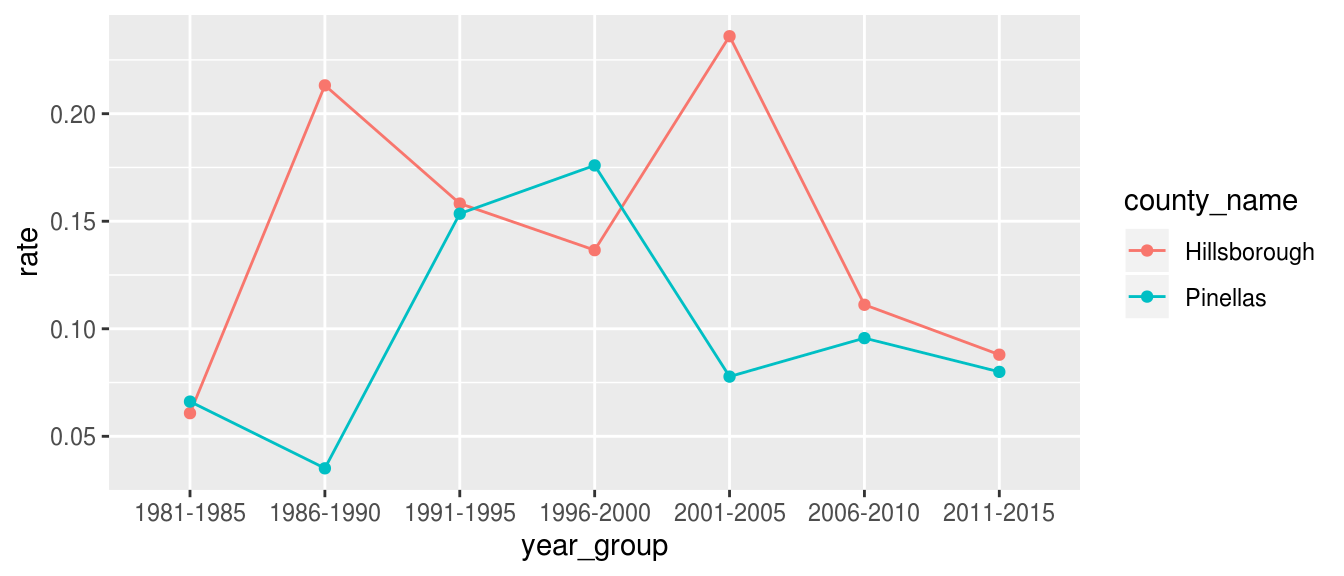
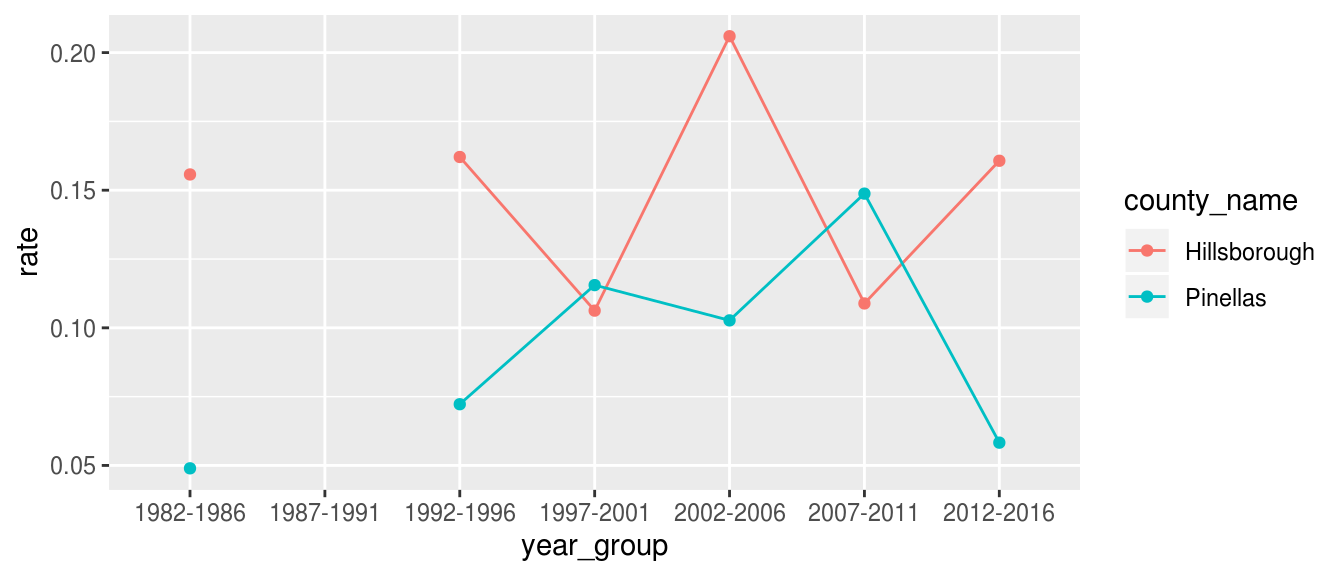
Deploy from Travis build 110 [ci skip]
Build URL: https://travis-ci.org/GerkeLab/fcds/builds/578446683
Commit: 0f09db50b9b5c94f210dc00641ab0e88dbbb514e

diff --git a/articles/fcds.html b/articles/fcds.html
@@ -31,7 +31,7 @@
       </button>
       <span class="navbar-brand">
         <a class="navbar-link" href="../index.html">fcds</a>
-        <span class="version label label-default" data-toggle="tooltip" data-placement="bottom" title="Released version">0.0.9.9000</span>
+        <span class="version label label-default" data-toggle="tooltip" data-placement="bottom" title="Released version">0.1.0</span>
       </span>
     </div>
 
@@ -121,11 +121,11 @@
 <a class="sourceLine" id="cb5-4" data-line-number="4"><span class="co">#&gt; # A tibble: 5 x 36</span></a>
 <a class="sourceLine" id="cb5-5" data-line-number="5"><span class="co">#&gt;   patient_id year_group year  cancer_status cancer_site_gro…</span></a>
 <a class="sourceLine" id="cb5-6" data-line-number="6"><span class="co">#&gt;        &lt;dbl&gt; &lt;fct&gt;      &lt;chr&gt; &lt;fct&gt;         &lt;fct&gt;           </span></a>
-<a class="sourceLine" id="cb5-7" data-line-number="7"><span class="co">#&gt; 1      10001 1981-1985  1983  No evidence … Breast          </span></a>
-<a class="sourceLine" id="cb5-8" data-line-number="8"><span class="co">#&gt; 2      10002 1981-1985  1983  Unknown       Multiple Myeloma</span></a>
-<a class="sourceLine" id="cb5-9" data-line-number="9"><span class="co">#&gt; 3      10003 1981-1985  1983  Unknown       Corpus and Uter…</span></a>
-<a class="sourceLine" id="cb5-10" data-line-number="10"><span class="co">#&gt; 4      10004 1981-1985  1983  Evidence of … Colon excluding…</span></a>
-<a class="sourceLine" id="cb5-11" data-line-number="11"><span class="co">#&gt; 5      10005 1981-1985  1983  Evidence of … Non-Hodgkin Lym…</span></a>
+<a class="sourceLine" id="cb5-7" data-line-number="7"><span class="co">#&gt; 1      10001 1982-1986  1984  Unknown       Colon excluding…</span></a>
+<a class="sourceLine" id="cb5-8" data-line-number="8"><span class="co">#&gt; 2      10002 1982-1986  1984  Evidence of … Breast          </span></a>
+<a class="sourceLine" id="cb5-9" data-line-number="9"><span class="co">#&gt; 3      10003 1982-1986  1984  Evidence of … Lung and Bronch…</span></a>
+<a class="sourceLine" id="cb5-10" data-line-number="10"><span class="co">#&gt; 4      10004 1982-1986  1984  No evidence … Colon excluding…</span></a>
+<a class="sourceLine" id="cb5-11" data-line-number="11"><span class="co">#&gt; 5      10005 1982-1986  1984  Unknown       Colon excluding…</span></a>
 <a class="sourceLine" id="cb5-12" data-line-number="12"><span class="co">#&gt; # … with 31 more variables: cancer_site_specific &lt;fct&gt;,</span></a>
 <a class="sourceLine" id="cb5-13" data-line-number="13"><span class="co">#&gt; #   cancer_confirmation &lt;fct&gt;, age_group &lt;fct&gt;, race &lt;fct&gt;, sex &lt;fct&gt;,</span></a>
 <a class="sourceLine" id="cb5-14" data-line-number="14"><span class="co">#&gt; #   origin &lt;fct&gt;, marital_status &lt;fct&gt;, county_name &lt;fct&gt;,</span></a>
@@ -187,37 +187,37 @@
 <a class="sourceLine" id="cb8-11" data-line-number="11"><span class="co">#&gt; [11] "cancer_ICDO3_conversion"</span></a></code></pre></div>
 <p>These column names can be used in conjunction with <code><a href="https://dplyr.tidyverse.org/reference/select.html">dplyr::select()</a></code>, or you can supply FCDS data to <code><a href="../reference/fcds_vars.html">fcds_vars()</a></code> using the <code>.data</code> argument to select matching columns.</p>
 <div class="sourceCode" id="cb9"><pre class="sourceCode r"><code class="sourceCode r"><a class="sourceLine" id="cb9-1" data-line-number="1">fcds <span class="op">%&gt;%</span><span class="st"> </span><span class="kw"><a href="https://dplyr.tidyverse.org/reference/select.html">select</a></span>(<span class="kw"><a href="../reference/fcds_vars.html">fcds_vars</a></span>(<span class="st">"id"</span>, <span class="st">"demo"</span>))</a>
-<a class="sourceLine" id="cb9-2" data-line-number="2"><span class="co">#&gt; # A tibble: 7,948 x 11</span></a>
+<a class="sourceLine" id="cb9-2" data-line-number="2"><span class="co">#&gt; # A tibble: 8,062 x 11</span></a>
 <a class="sourceLine" id="cb9-3" data-line-number="3"><span class="co">#&gt;    patient_id year_group year  age_group race  sex   origin marital_status</span></a>
 <a class="sourceLine" id="cb9-4" data-line-number="4"><span class="co">#&gt;         &lt;dbl&gt; &lt;fct&gt;      &lt;chr&gt; &lt;fct&gt;     &lt;fct&gt; &lt;fct&gt; &lt;fct&gt;  &lt;fct&gt;         </span></a>
-<a class="sourceLine" id="cb9-5" data-line-number="5"><span class="co">#&gt;  1      10001 1981-1985  1983  0 - 4     Black Male  Hispa… Single, Separ…</span></a>
-<a class="sourceLine" id="cb9-6" data-line-number="6"><span class="co">#&gt;  2      10002 1981-1985  1983  0 - 4     White Male  Non-H… Single, Separ…</span></a>
-<a class="sourceLine" id="cb9-7" data-line-number="7"><span class="co">#&gt;  3      10003 1981-1985  1983  0 - 4     Other Fema… Hispa… Single, Separ…</span></a>
-<a class="sourceLine" id="cb9-8" data-line-number="8"><span class="co">#&gt;  4      10004 1981-1985  1983  0 - 4     White Male  Hispa… Single, Separ…</span></a>
-<a class="sourceLine" id="cb9-9" data-line-number="9"><span class="co">#&gt;  5      10005 1981-1985  1983  10 - 14   White Fema… Non-H… Single, Separ…</span></a>
-<a class="sourceLine" id="cb9-10" data-line-number="10"><span class="co">#&gt;  6      10006 1981-1985  1983  10 - 14   Black Male  Hispa… Single, Separ…</span></a>
-<a class="sourceLine" id="cb9-11" data-line-number="11"><span class="co">#&gt;  7      10007 1981-1985  1983  15 - 19   White Male  Hispa… Single, Separ…</span></a>
-<a class="sourceLine" id="cb9-12" data-line-number="12"><span class="co">#&gt;  8      10008 1981-1985  1983  15 - 19   Other Male  Unkno… Single, Separ…</span></a>
-<a class="sourceLine" id="cb9-13" data-line-number="13"><span class="co">#&gt;  9      10009 1981-1985  1983  15 - 19   White Fema… Hispa… Single, Separ…</span></a>
-<a class="sourceLine" id="cb9-14" data-line-number="14"><span class="co">#&gt; 10      10010 1981-1985  1983  15 - 19   Other Fema… Hispa… Single, Separ…</span></a>
-<a class="sourceLine" id="cb9-15" data-line-number="15"><span class="co">#&gt; # … with 7,938 more rows, and 3 more variables: birth_country &lt;fct&gt;,</span></a>
+<a class="sourceLine" id="cb9-5" data-line-number="5"><span class="co">#&gt;  1      10001 1982-1986  1984  0 - 4     White Male  Hispa… Single, Separ…</span></a>
+<a class="sourceLine" id="cb9-6" data-line-number="6"><span class="co">#&gt;  2      10002 1982-1986  1984  0 - 4     White Male  Hispa… Single, Separ…</span></a>
+<a class="sourceLine" id="cb9-7" data-line-number="7"><span class="co">#&gt;  3      10003 1982-1986  1984  5 - 9     White Fema… Hispa… Single, Separ…</span></a>
+<a class="sourceLine" id="cb9-8" data-line-number="8"><span class="co">#&gt;  4      10004 1982-1986  1984  5 - 9     Other Fema… Hispa… Single, Separ…</span></a>
+<a class="sourceLine" id="cb9-9" data-line-number="9"><span class="co">#&gt;  5      10005 1982-1986  1984  10 - 14   Black Male  Hispa… Single, Separ…</span></a>
+<a class="sourceLine" id="cb9-10" data-line-number="10"><span class="co">#&gt;  6      10006 1982-1986  1984  15 - 19   Black Fema… Unkno… Unknown       </span></a>
+<a class="sourceLine" id="cb9-11" data-line-number="11"><span class="co">#&gt;  7      10007 1982-1986  1984  15 - 19   Other Male  Hispa… Single, Separ…</span></a>
+<a class="sourceLine" id="cb9-12" data-line-number="12"><span class="co">#&gt;  8      10008 1982-1986  1984  15 - 19   White Fema… Hispa… Unknown       </span></a>
+<a class="sourceLine" id="cb9-13" data-line-number="13"><span class="co">#&gt;  9      10009 1982-1986  1984  15 - 19   Black Fema… Non-H… Married; Unma…</span></a>
+<a class="sourceLine" id="cb9-14" data-line-number="14"><span class="co">#&gt; 10      10010 1982-1986  1984  15 - 19   Other Male  Hispa… Single, Separ…</span></a>
+<a class="sourceLine" id="cb9-15" data-line-number="15"><span class="co">#&gt; # … with 8,052 more rows, and 3 more variables: birth_country &lt;fct&gt;,</span></a>
 <a class="sourceLine" id="cb9-16" data-line-number="16"><span class="co">#&gt; #   birth_state &lt;fct&gt;, primary_payer &lt;fct&gt;</span></a>
 <a class="sourceLine" id="cb9-17" data-line-number="17"></a>
 <a class="sourceLine" id="cb9-18" data-line-number="18"><span class="kw"><a href="../reference/fcds_vars.html">fcds_vars</a></span>(<span class="dt">.data =</span> fcds, <span class="st">"id"</span>, <span class="st">"icdo3"</span>)</a>
-<a class="sourceLine" id="cb9-19" data-line-number="19"><span class="co">#&gt; # A tibble: 7,948 x 7</span></a>
+<a class="sourceLine" id="cb9-19" data-line-number="19"><span class="co">#&gt; # A tibble: 8,062 x 7</span></a>
 <a class="sourceLine" id="cb9-20" data-line-number="20"><span class="co">#&gt;    patient_id year_group year  cancer_ICDO3_co… cancer_ICDO3_hi…</span></a>
 <a class="sourceLine" id="cb9-21" data-line-number="21"><span class="co">#&gt;         &lt;dbl&gt; &lt;fct&gt;      &lt;chr&gt; &lt;fct&gt;            &lt;chr&gt;           </span></a>
-<a class="sourceLine" id="cb9-22" data-line-number="22"><span class="co">#&gt;  1      10001 1981-1985  1983  Originally code… 8522            </span></a>
-<a class="sourceLine" id="cb9-23" data-line-number="23"><span class="co">#&gt;  2      10002 1981-1985  1983  Converted witho… 9732            </span></a>
-<a class="sourceLine" id="cb9-24" data-line-number="24"><span class="co">#&gt;  3      10003 1981-1985  1983  Converted witho… 8140            </span></a>
-<a class="sourceLine" id="cb9-25" data-line-number="25"><span class="co">#&gt;  4      10004 1981-1985  1983  Originally code… 8140            </span></a>
-<a class="sourceLine" id="cb9-26" data-line-number="26"><span class="co">#&gt;  5      10005 1981-1985  1983  Originally code… 9690            </span></a>
-<a class="sourceLine" id="cb9-27" data-line-number="27"><span class="co">#&gt;  6      10006 1981-1985  1983  Converted witho… 8140            </span></a>
-<a class="sourceLine" id="cb9-28" data-line-number="28"><span class="co">#&gt;  7      10007 1981-1985  1983  Originally code… 8720            </span></a>
-<a class="sourceLine" id="cb9-29" data-line-number="29"><span class="co">#&gt;  8      10008 1981-1985  1983  Converted witho… 8000            </span></a>
-<a class="sourceLine" id="cb9-30" data-line-number="30"><span class="co">#&gt;  9      10009 1981-1985  1983  Converted witho… 8130            </span></a>
-<a class="sourceLine" id="cb9-31" data-line-number="31"><span class="co">#&gt; 10      10010 1981-1985  1983  Originally code… 8310            </span></a>
-<a class="sourceLine" id="cb9-32" data-line-number="32"><span class="co">#&gt; # … with 7,938 more rows, and 2 more variables:</span></a>
+<a class="sourceLine" id="cb9-22" data-line-number="22"><span class="co">#&gt;  1      10001 1982-1986  1984  Converted witho… 8010            </span></a>
+<a class="sourceLine" id="cb9-23" data-line-number="23"><span class="co">#&gt;  2      10002 1982-1986  1984  Originally code… 8500            </span></a>
+<a class="sourceLine" id="cb9-24" data-line-number="24"><span class="co">#&gt;  3      10003 1982-1986  1984  Converted witho… 8070            </span></a>
+<a class="sourceLine" id="cb9-25" data-line-number="25"><span class="co">#&gt;  4      10004 1982-1986  1984  Originally code… 8263            </span></a>
+<a class="sourceLine" id="cb9-26" data-line-number="26"><span class="co">#&gt;  5      10005 1982-1986  1984  Converted witho… 8140            </span></a>
+<a class="sourceLine" id="cb9-27" data-line-number="27"><span class="co">#&gt;  6      10006 1982-1986  1984  Originally code… 8140            </span></a>
+<a class="sourceLine" id="cb9-28" data-line-number="28"><span class="co">#&gt;  7      10007 1982-1986  1984  Originally code… 8140            </span></a>
+<a class="sourceLine" id="cb9-29" data-line-number="29"><span class="co">#&gt;  8      10008 1982-1986  1984  Converted witho… 8500            </span></a>
+<a class="sourceLine" id="cb9-30" data-line-number="30"><span class="co">#&gt;  9      10009 1982-1986  1984  Originally code… 8000            </span></a>
+<a class="sourceLine" id="cb9-31" data-line-number="31"><span class="co">#&gt; 10      10010 1982-1986  1984  Originally code… 8140            </span></a>
+<a class="sourceLine" id="cb9-32" data-line-number="32"><span class="co">#&gt; # … with 8,052 more rows, and 2 more variables:</span></a>
 <a class="sourceLine" id="cb9-33" data-line-number="33"><span class="co">#&gt; #   cancer_ICDO3_behavior &lt;fct&gt;, cancer_ICDO3_morphology &lt;chr&gt;</span></a></code></pre></div>
 </div>
 </div>
@@ -248,29 +248,30 @@
 <a class="sourceLine" id="cb10-21" data-line-number="21">fcds_prostate</a>
 <a class="sourceLine" id="cb10-22" data-line-number="22"><span class="co">#&gt; # A tibble: 14 x 7</span></a>
 <a class="sourceLine" id="cb10-23" data-line-number="23"><span class="co">#&gt; # Groups:   county_name, cancer_site_group, year_group, year [14]</span></a>
-<a class="sourceLine" id="cb10-24" data-line-number="24"><span class="co">#&gt;    county_name  cancer_site_group year_group year      n population   rate</span></a>
-<a class="sourceLine" id="cb10-25" data-line-number="25"><span class="co">#&gt;    &lt;chr&gt;        &lt;fct&gt;             &lt;fct&gt;      &lt;chr&gt; &lt;dbl&gt;      &lt;dbl&gt;  &lt;dbl&gt;</span></a>
-<a class="sourceLine" id="cb10-26" data-line-number="26"><span class="co">#&gt;  1 Hillsborough Prostate Gland    1981-1985  1983      2     709697 0.0608</span></a>
-<a class="sourceLine" id="cb10-27" data-line-number="27"><span class="co">#&gt;  2 Hillsborough Prostate Gland    1986-1990  1988      8     816676 0.213 </span></a>
-<a class="sourceLine" id="cb10-28" data-line-number="28"><span class="co">#&gt;  3 Hillsborough Prostate Gland    1991-1995  1993      6     879024 0.158 </span></a>
-<a class="sourceLine" id="cb10-29" data-line-number="29"><span class="co">#&gt;  4 Hillsborough Prostate Gland    1996-2000  1998      6     965130 0.137 </span></a>
-<a class="sourceLine" id="cb10-30" data-line-number="30"><span class="co">#&gt;  5 Hillsborough Prostate Gland    2001-2005  2003     12    1077462 0.236 </span></a>
-<a class="sourceLine" id="cb10-31" data-line-number="31"><span class="co">#&gt;  6 Hillsborough Prostate Gland    2006-2010  2008      7    1196773 0.111 </span></a>
-<a class="sourceLine" id="cb10-32" data-line-number="32"><span class="co">#&gt;  7 Hillsborough Prostate Gland    2011-2015  2013      6    1293189 0.0880</span></a>
-<a class="sourceLine" id="cb10-33" data-line-number="33"><span class="co">#&gt;  8 Pinellas     Prostate Gland    1981-1985  1983      3     779156 0.0661</span></a>
-<a class="sourceLine" id="cb10-34" data-line-number="34"><span class="co">#&gt;  9 Pinellas     Prostate Gland    1986-1990  1988      2     829539 0.0351</span></a>
-<a class="sourceLine" id="cb10-35" data-line-number="35"><span class="co">#&gt; 10 Pinellas     Prostate Gland    1991-1995  1993     11     877340 0.154 </span></a>
-<a class="sourceLine" id="cb10-36" data-line-number="36"><span class="co">#&gt; 11 Pinellas     Prostate Gland    1996-2000  1998     11     913032 0.176 </span></a>
-<a class="sourceLine" id="cb10-37" data-line-number="37"><span class="co">#&gt; 12 Pinellas     Prostate Gland    2001-2005  2003      5     926266 0.0778</span></a>
-<a class="sourceLine" id="cb10-38" data-line-number="38"><span class="co">#&gt; 13 Pinellas     Prostate Gland    2006-2010  2008      7     916458 0.0957</span></a>
-<a class="sourceLine" id="cb10-39" data-line-number="39"><span class="co">#&gt; 14 Pinellas     Prostate Gland    2011-2015  2013      7     929085 0.0800</span></a></code></pre></div>
+<a class="sourceLine" id="cb10-24" data-line-number="24"><span class="co">#&gt;    county_name  cancer_site_gro… year_group year      n population     rate</span></a>
+<a class="sourceLine" id="cb10-25" data-line-number="25"><span class="co">#&gt;    &lt;chr&gt;        &lt;fct&gt;            &lt;fct&gt;      &lt;chr&gt; &lt;dbl&gt;      &lt;dbl&gt;    &lt;dbl&gt;</span></a>
+<a class="sourceLine" id="cb10-26" data-line-number="26"><span class="co">#&gt;  1 Hillsborough Prostate Gland   1982-1986  1984      5     731913   0.156 </span></a>
+<a class="sourceLine" id="cb10-27" data-line-number="27"><span class="co">#&gt;  2 Hillsborough Prostate Gland   1987-1991  1989      3          0 NaN     </span></a>
+<a class="sourceLine" id="cb10-28" data-line-number="28"><span class="co">#&gt;  3 Hillsborough Prostate Gland   1992-1996  1994      7     890958   0.162 </span></a>
+<a class="sourceLine" id="cb10-29" data-line-number="29"><span class="co">#&gt;  4 Hillsborough Prostate Gland   1997-2001  1999      5     984930   0.106 </span></a>
+<a class="sourceLine" id="cb10-30" data-line-number="30"><span class="co">#&gt;  5 Hillsborough Prostate Gland   2002-2006  2004     11    1108225   0.206 </span></a>
+<a class="sourceLine" id="cb10-31" data-line-number="31"><span class="co">#&gt;  6 Hillsborough Prostate Gland   2007-2011  2009      7    1214050   0.109 </span></a>
+<a class="sourceLine" id="cb10-32" data-line-number="32"><span class="co">#&gt;  7 Hillsborough Prostate Gland   2012-2016  2014     12    1319511   0.161 </span></a>
+<a class="sourceLine" id="cb10-33" data-line-number="33"><span class="co">#&gt;  8 Pinellas     Prostate Gland   1982-1986  1984      4     793633   0.0490</span></a>
+<a class="sourceLine" id="cb10-34" data-line-number="34"><span class="co">#&gt;  9 Pinellas     Prostate Gland   1987-1991  1989      7          0 NaN     </span></a>
+<a class="sourceLine" id="cb10-35" data-line-number="35"><span class="co">#&gt; 10 Pinellas     Prostate Gland   1992-1996  1994      5     884441   0.0723</span></a>
+<a class="sourceLine" id="cb10-36" data-line-number="36"><span class="co">#&gt; 11 Pinellas     Prostate Gland   1997-2001  1999      7     917379   0.116 </span></a>
+<a class="sourceLine" id="cb10-37" data-line-number="37"><span class="co">#&gt; 12 Pinellas     Prostate Gland   2002-2006  2004      5     928305   0.103 </span></a>
+<a class="sourceLine" id="cb10-38" data-line-number="38"><span class="co">#&gt; 13 Pinellas     Prostate Gland   2007-2011  2009      9     915330   0.149 </span></a>
+<a class="sourceLine" id="cb10-39" data-line-number="39"><span class="co">#&gt; 14 Pinellas     Prostate Gland   2012-2016  2014      3     937933   0.0583</span></a></code></pre></div>
 <p>This data can readily be passed to <code>ggplot2</code> for visualization.</p>
 <div class="sourceCode" id="cb11"><pre class="sourceCode r"><code class="sourceCode r"><a class="sourceLine" id="cb11-1" data-line-number="1"><span class="kw"><a href="https://www.rdocumentation.org/packages/base/topics/library">library</a></span>(ggplot2)</a>
 <a class="sourceLine" id="cb11-2" data-line-number="2"></a>
 <a class="sourceLine" id="cb11-3" data-line-number="3"><span class="kw"><a href="https://ggplot2.tidyverse.org/reference/ggplot.html">ggplot</a></span>(fcds_prostate) <span class="op">+</span></a>
 <a class="sourceLine" id="cb11-4" data-line-number="4"><span class="st">  </span><span class="kw"><a href="https://ggplot2.tidyverse.org/reference/aes.html">aes</a></span>(year_group, rate, <span class="dt">color =</span> county_name, <span class="dt">group =</span> county_name) <span class="op">+</span></a>
 <a class="sourceLine" id="cb11-5" data-line-number="5"><span class="st">  </span><span class="kw"><a href="https://ggplot2.tidyverse.org/reference/geom_path.html">geom_line</a></span>() <span class="op">+</span></a>
-<a class="sourceLine" id="cb11-6" data-line-number="6"><span class="st">  </span><span class="kw"><a href="https://ggplot2.tidyverse.org/reference/geom_point.html">geom_point</a></span>()</a></code></pre></div>
+<a class="sourceLine" id="cb11-6" data-line-number="6"><span class="st">  </span><span class="kw"><a href="https://ggplot2.tidyverse.org/reference/geom_point.html">geom_point</a></span>()</a>
+<a class="sourceLine" id="cb11-7" data-line-number="7"><span class="co">#&gt; Warning: Removed 2 rows containing missing values (geom_point).</span></a></code></pre></div>
 <p><img src="fcds_files/figure-html/unnamed-chunk-11-1.png" width="672"></p>
 </div>
   </div>

diff --git a/reference/count_fcds.html b/reference/count_fcds.html
@@ -76,7 +76,7 @@ directly." />
       </button>
       <span class="navbar-brand">
         <a class="navbar-link" href="../index.html">fcds</a>
-        <span class="version label label-default" data-toggle="tooltip" data-placement="bottom" title="Released version">0.0.9.9000</span>
+        <span class="version label label-default" data-toggle="tooltip" data-placement="bottom" title="Released version">0.1.0</span>
       </span>
     </div>
 
@@ -202,21 +202,21 @@ in the final output across all groups.</p>
     <pre class="examples"><div class='input'>
 <span class='no'>fcds_example</span> <span class='kw'>%&gt;%</span>
   <span class='kw pkg'>dplyr</span><span class='kw ns'>::</span><span class='fu'><a href='https://dplyr.tidyverse.org/reference/filter.html'>filter</a></span>(<span class='no'>county_name</span> <span class='kw'>==</span> <span class='st'>"Pinellas"</span>) <span class='kw'>%&gt;%</span>
-  <span class='fu'>count_fcds</span>(<span class='no'>cancer_site_group</span>, <span class='kw'>sex</span> <span class='kw'>=</span> <span class='st'>"Male"</span>)</div><div class='output co'>#&gt; # A tibble: 302 x 6
-#&gt; # Groups:   cancer_site_group, sex, year_group, year, age_group [302]
+  <span class='fu'>count_fcds</span>(<span class='no'>cancer_site_group</span>, <span class='kw'>sex</span> <span class='kw'>=</span> <span class='st'>"Male"</span>)</div><div class='output co'>#&gt; # A tibble: 285 x 6
+#&gt; # Groups:   cancer_site_group, sex, year_group, year, age_group [285]
 #&gt;    cancer_site_group       sex   year_group year  age_group     n
 #&gt;    &lt;fct&gt;                   &lt;fct&gt; &lt;fct&gt;      &lt;chr&gt; &lt;fct&gt;     &lt;int&gt;
-#&gt;  1 Oral Cavity and Pharynx Male  1986-1990  1988  60 - 64       1
-#&gt;  2 Oral Cavity and Pharynx Male  1991-1995  1993  55 - 59       1
-#&gt;  3 Oral Cavity and Pharynx Male  1991-1995  1993  60 - 64       1
-#&gt;  4 Oral Cavity and Pharynx Male  1991-1995  1993  65 - 69       1
-#&gt;  5 Oral Cavity and Pharynx Male  1991-1995  1993  70 - 74       1
-#&gt;  6 Oral Cavity and Pharynx Male  1991-1995  1993  75 - 79       1
-#&gt;  7 Oral Cavity and Pharynx Male  1996-2000  1998  45 - 49       1
-#&gt;  8 Oral Cavity and Pharynx Male  1996-2000  1998  75 - 79       1
-#&gt;  9 Oral Cavity and Pharynx Male  1996-2000  1998  85+           1
-#&gt; 10 Oral Cavity and Pharynx Male  2001-2005  2003  5 - 9         1
-#&gt; # … with 292 more rows</div><div class='input'>
+#&gt;  1 Oral Cavity and Pharynx Male  1992-1996  1994  0 - 4         1
+#&gt;  2 Oral Cavity and Pharynx Male  1992-1996  1994  55 - 59       1
+#&gt;  3 Oral Cavity and Pharynx Male  1997-2001  1999  70 - 74       1
+#&gt;  4 Oral Cavity and Pharynx Male  2002-2006  2004  15 - 19       1
+#&gt;  5 Oral Cavity and Pharynx Male  2002-2006  2004  75 - 79       1
+#&gt;  6 Oral Cavity and Pharynx Male  2007-2011  2009  70 - 74       2
+#&gt;  7 Esophagus               Male  1987-1991  1989  70 - 74       1
+#&gt;  8 Esophagus               Male  1987-1991  1989  75 - 79       1
+#&gt;  9 Esophagus               Male  1997-2001  1999  65 - 69       1
+#&gt; 10 Esophagus               Male  2007-2011  2009  50 - 54       1
+#&gt; # … with 275 more rows</div><div class='input'>
 </div></pre>
   </div>
   <div class="col-md-3 hidden-xs hidden-sm" id="sidebar">

diff --git a/reference/complete_year_groups.html b/reference/complete_year_groups.html
@@ -69,7 +69,7 @@ see fcds_const()." />
       </button>
       <span class="navbar-brand">
         <a class="navbar-link" href="../index.html">fcds</a>
-        <span class="version label label-default" data-toggle="tooltip" data-placement="bottom" title="Released version">0.0.9.9000</span>
+        <span class="version label label-default" data-toggle="tooltip" data-placement="bottom" title="Released version">0.1.0</span>
       </span>
     </div>
 
@@ -198,14 +198,14 @@ release will be used instead.</p></td>
 #&gt;    sex    race  year_group
 #&gt;    &lt;chr&gt;  &lt;chr&gt; &lt;chr&gt;     
 #&gt;  1 Female Black 1982-1986 
-#&gt;  2 Female Black 1986-1991 
+#&gt;  2 Female Black 1987-1991 
 #&gt;  3 Female Black 1992-1996 
 #&gt;  4 Female Black 1997-2001 
 #&gt;  5 Female Black 2002-2006 
 #&gt;  6 Female Black 2007-2011 
 #&gt;  7 Female Black 2012-2016 
 #&gt;  8 Female Other 1982-1986 
-#&gt;  9 Female Other 1986-1991 
+#&gt;  9 Female Other 1987-1991 
 #&gt; 10 Female Other 1992-1996 
 #&gt; # … with 18 more rows</div><div class='input'>
 <span class='no'>d_year</span> <span class='kw'>%&gt;%</span>
@@ -214,14 +214,14 @@ release will be used instead.</p></td>
 #&gt;    sex    race  year_group
 #&gt;    &lt;chr&gt;  &lt;chr&gt; &lt;chr&gt;     
 #&gt;  1 Female Black 1982-1986 
-#&gt;  2 Female Black 1986-1991 
+#&gt;  2 Female Black 1987-1991 
 #&gt;  3 Female Black 1992-1996 
 #&gt;  4 Female Black 1997-2001 
 #&gt;  5 Female Black 2002-2006 
 #&gt;  6 Female Black 2007-2011 
 #&gt;  7 Female Black 2012-2016 
 #&gt;  8 Female Other 1982-1986 
-#&gt;  9 Female Other 1986-1991 
+#&gt;  9 Female Other 1987-1991 
 #&gt; 10 Female Other 1992-1996 
 #&gt; # … with 18 more rows</div><div class='input'>
 <span class='co'># If you have previously filtered the data to include a subset of years, you</span>

diff --git a/reference/index.html b/reference/index.html
@@ -66,7 +66,7 @@
       </button>
       <span class="navbar-brand">
         <a class="navbar-link" href="../index.html">fcds</a>
-        <span class="version label label-default" data-toggle="tooltip" data-placement="bottom" title="Released version">0.0.9.9000</span>
+        <span class="version label label-default" data-toggle="tooltip" data-placement="bottom" title="Released version">0.1.0</span>
       </span>
     </div>
 
@@ -160,6 +160,12 @@
           <p><code><a href="fcds_cache.html">fcds_cache_ls()</a></code> <code><a href="fcds_cache.html">fcds_cache_info()</a></code> <code><a href="fcds_cache.html">fcds_cache_clean()</a></code> </p>
         </td>
         <td><p>List or Clean Cached FCDS Data Files</p></td>
+      </tr><tr>
+        
+        <td>
+          <p><code><a href="fcds_recoding.html">fcds_recoding()</a></code> </p>
+        </td>
+        <td><p>List Available FCDS Recoding Settings Files</p></td>
       </tr>
     </tbody><tbody>
       <tr>

diff --git a/reference/seer_pop_fl_1990.html b/reference/seer_pop_fl_1990.html
@@ -77,7 +77,7 @@ recoding by collapsing the expanded race variable into &quot;White&quot;, &quot;
       </button>
       <span class="navbar-brand">
         <a class="navbar-link" href="../index.html">fcds</a>
-        <span class="version label label-default" data-toggle="tooltip" data-placement="bottom" title="Released version">0.0.9.9000</span>
+        <span class="version label label-default" data-toggle="tooltip" data-placement="bottom" title="Released version">0.1.0</span>
       </span>
     </div>
 

diff --git a/reference/seer_std_ages.html b/reference/seer_std_ages.html
@@ -71,7 +71,7 @@ ages agregated into 18 age groups: &quot;0 - 4&quot;, ..., &quot;80 - 84&quot;, 
       </button>
       <span class="navbar-brand">
         <a class="navbar-link" href="../index.html">fcds</a>
-        <span class="version label label-default" data-toggle="tooltip" data-placement="bottom" title="Released version">0.0.9.9000</span>
+        <span class="version label label-default" data-toggle="tooltip" data-placement="bottom" title="Released version">0.1.0</span>
       </span>
     </div>
 

diff --git a/reference/filter_age_groups.html b/reference/filter_age_groups.html
@@ -71,7 +71,7 @@ boundary age lies within a group, that group is not included in the output." />
       </button>
       <span class="navbar-brand">
         <a class="navbar-link" href="../index.html">fcds</a>
-        <span class="version label label-default" data-toggle="tooltip" data-placement="bottom" title="Released version">0.0.9.9000</span>
+        <span class="version label label-default" data-toggle="tooltip" data-placement="bottom" title="Released version">0.1.0</span>
       </span>
     </div>
 

diff --git a/reference/add_mid_year_groups.html b/reference/add_mid_year_groups.html
@@ -72,7 +72,7 @@ as floor((year_max - year_min) / 2) unless offset is explicitly provided." />
       </button>
       <span class="navbar-brand">
         <a class="navbar-link" href="../index.html">fcds</a>
-        <span class="version label label-default" data-toggle="tooltip" data-placement="bottom" title="Released version">0.0.9.9000</span>
+        <span class="version label label-default" data-toggle="tooltip" data-placement="bottom" title="Released version">0.1.0</span>
       </span>
     </div>
 

diff --git a/reference/fcds_import.html b/reference/fcds_import.html
@@ -74,7 +74,7 @@ raw data. The data caching can be disabled by setting output_file = NULL." />
       </button>
       <span class="navbar-brand">
         <a class="navbar-link" href="../index.html">fcds</a>
-        <span class="version label label-default" data-toggle="tooltip" data-placement="bottom" title="Released version">0.0.9.9000</span>
+        <span class="version label label-default" data-toggle="tooltip" data-placement="bottom" title="Released version">0.1.0</span>
       </span>
     </div>
 

diff --git a/reference/seer_pop_fl.html b/reference/seer_pop_fl.html
@@ -75,7 +75,7 @@ the FCDS data. Only years matching the FCDS 5-year mid year are included." />
       </button>
       <span class="navbar-brand">
         <a class="navbar-link" href="../index.html">fcds</a>
-        <span class="version label label-default" data-toggle="tooltip" data-placement="bottom" title="Released version">0.0.9.9000</span>
+        <span class="version label label-default" data-toggle="tooltip" data-placement="bottom" title="Released version">0.1.0</span>
       </span>
     </div>
 

diff --git a/reference/fcds_const.html b/reference/fcds_const.html
@@ -70,7 +70,7 @@ about the cleaned column and value labels and the original data values." />
       </button>
       <span class="navbar-brand">
         <a class="navbar-link" href="../index.html">fcds</a>
-        <span class="version label label-default" data-toggle="tooltip" data-placement="bottom" title="Released version">0.0.9.9000</span>
+        <span class="version label label-default" data-toggle="tooltip" data-placement="bottom" title="Released version">0.1.0</span>
       </span>
     </div>
 

diff --git a/reference/with_retain_groups.html b/reference/with_retain_groups.html
@@ -72,7 +72,7 @@ grouped data frame and restores the original group as much as possible." />
       </button>
       <span class="navbar-brand">
         <a class="navbar-link" href="../index.html">fcds</a>
-        <span class="version label label-default" data-toggle="tooltip" data-placement="bottom" title="Released version">0.0.9.9000</span>
+        <span class="version label label-default" data-toggle="tooltip" data-placement="bottom" title="Released version">0.1.0</span>
       </span>
     </div>
 
